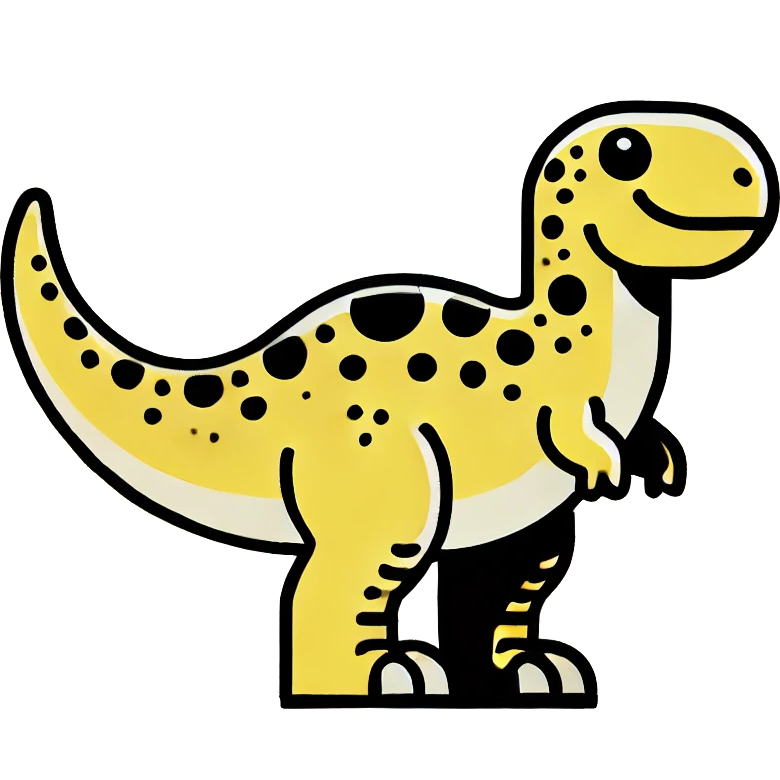
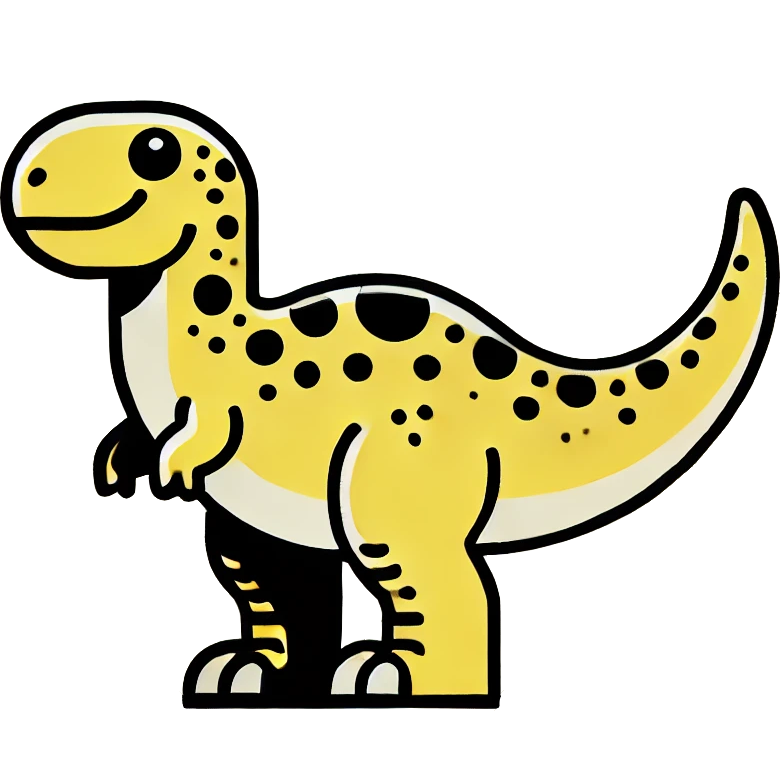
Flip some dinos images

diff --git a/src/components/GameHelp.vue b/src/components/GameHelp.vue
@@ -93,7 +93,7 @@
           <br>
           Before you dive in, note that there are a few game settings available. Kindly recommend you to start with the
           "fog of war" option disabled and towers only to understand what's going on.
-          <img class="unit-img" style="float: right; transform: scaleX(-1);" :src="`/images/dino2.png`">
+          <img class="unit-img" style="float: right;" :src="`/images/dino2.png`">
           <br>
           Enjoy!
         </div>
